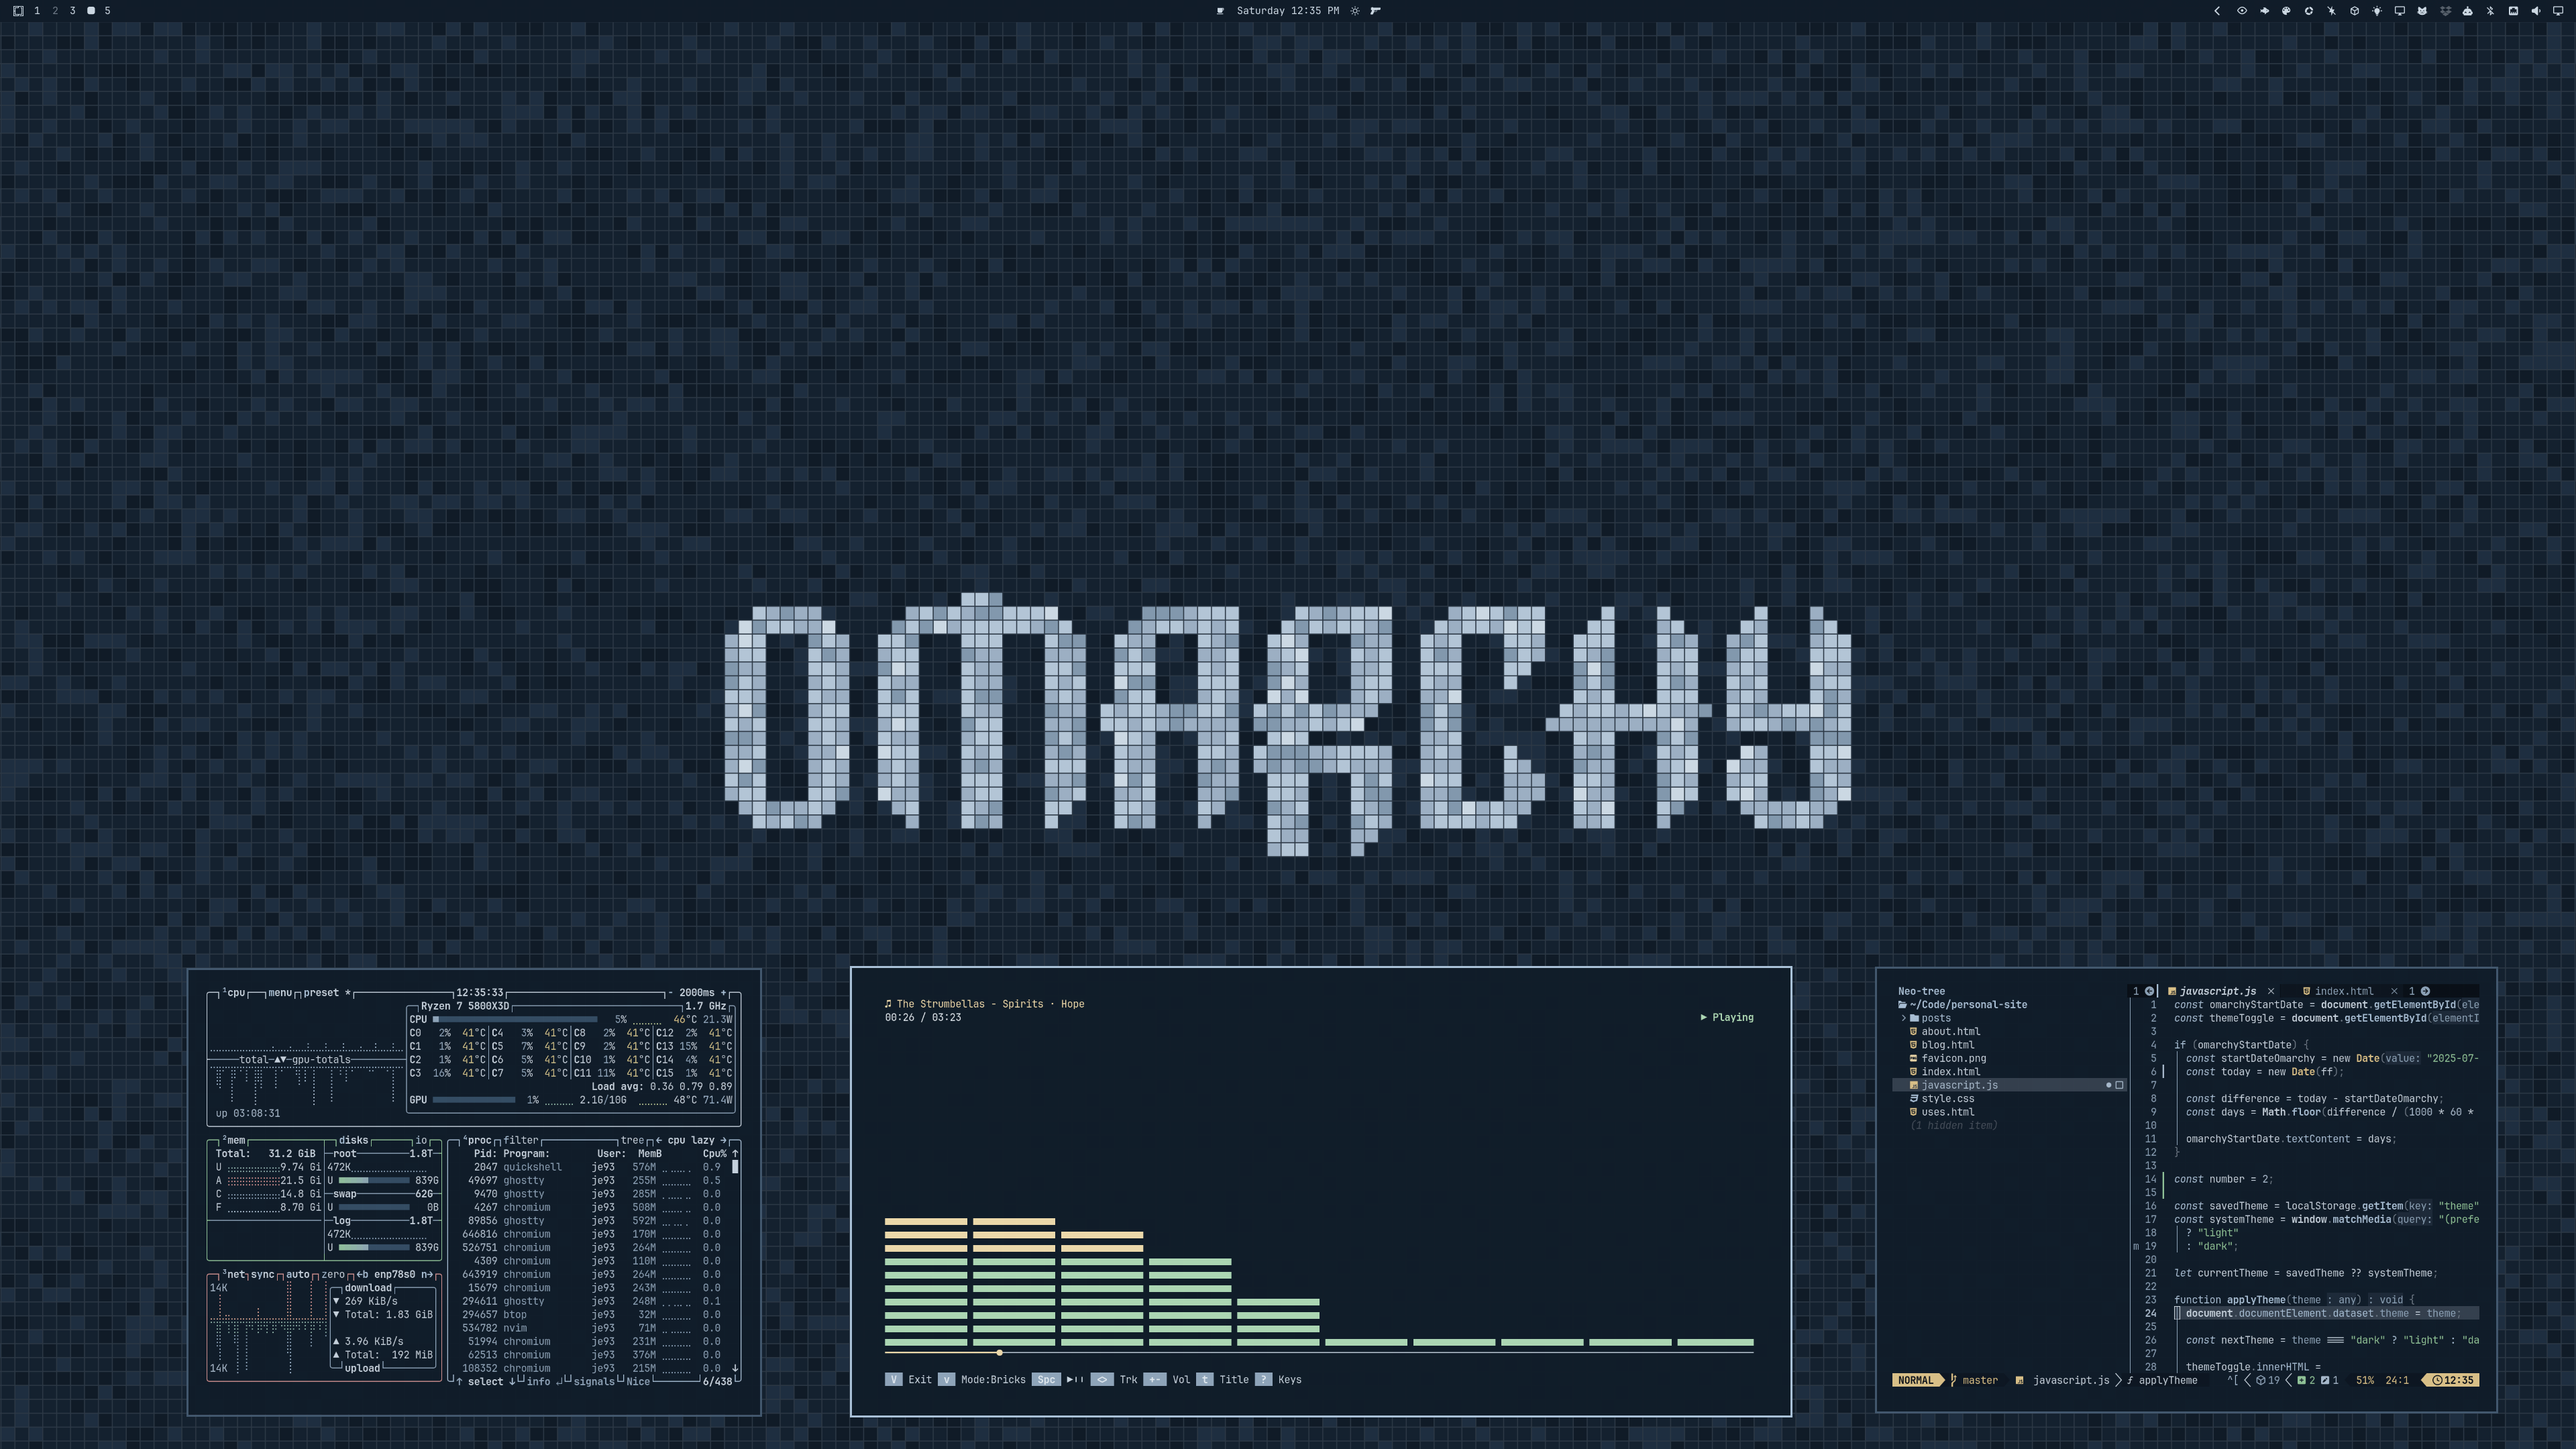
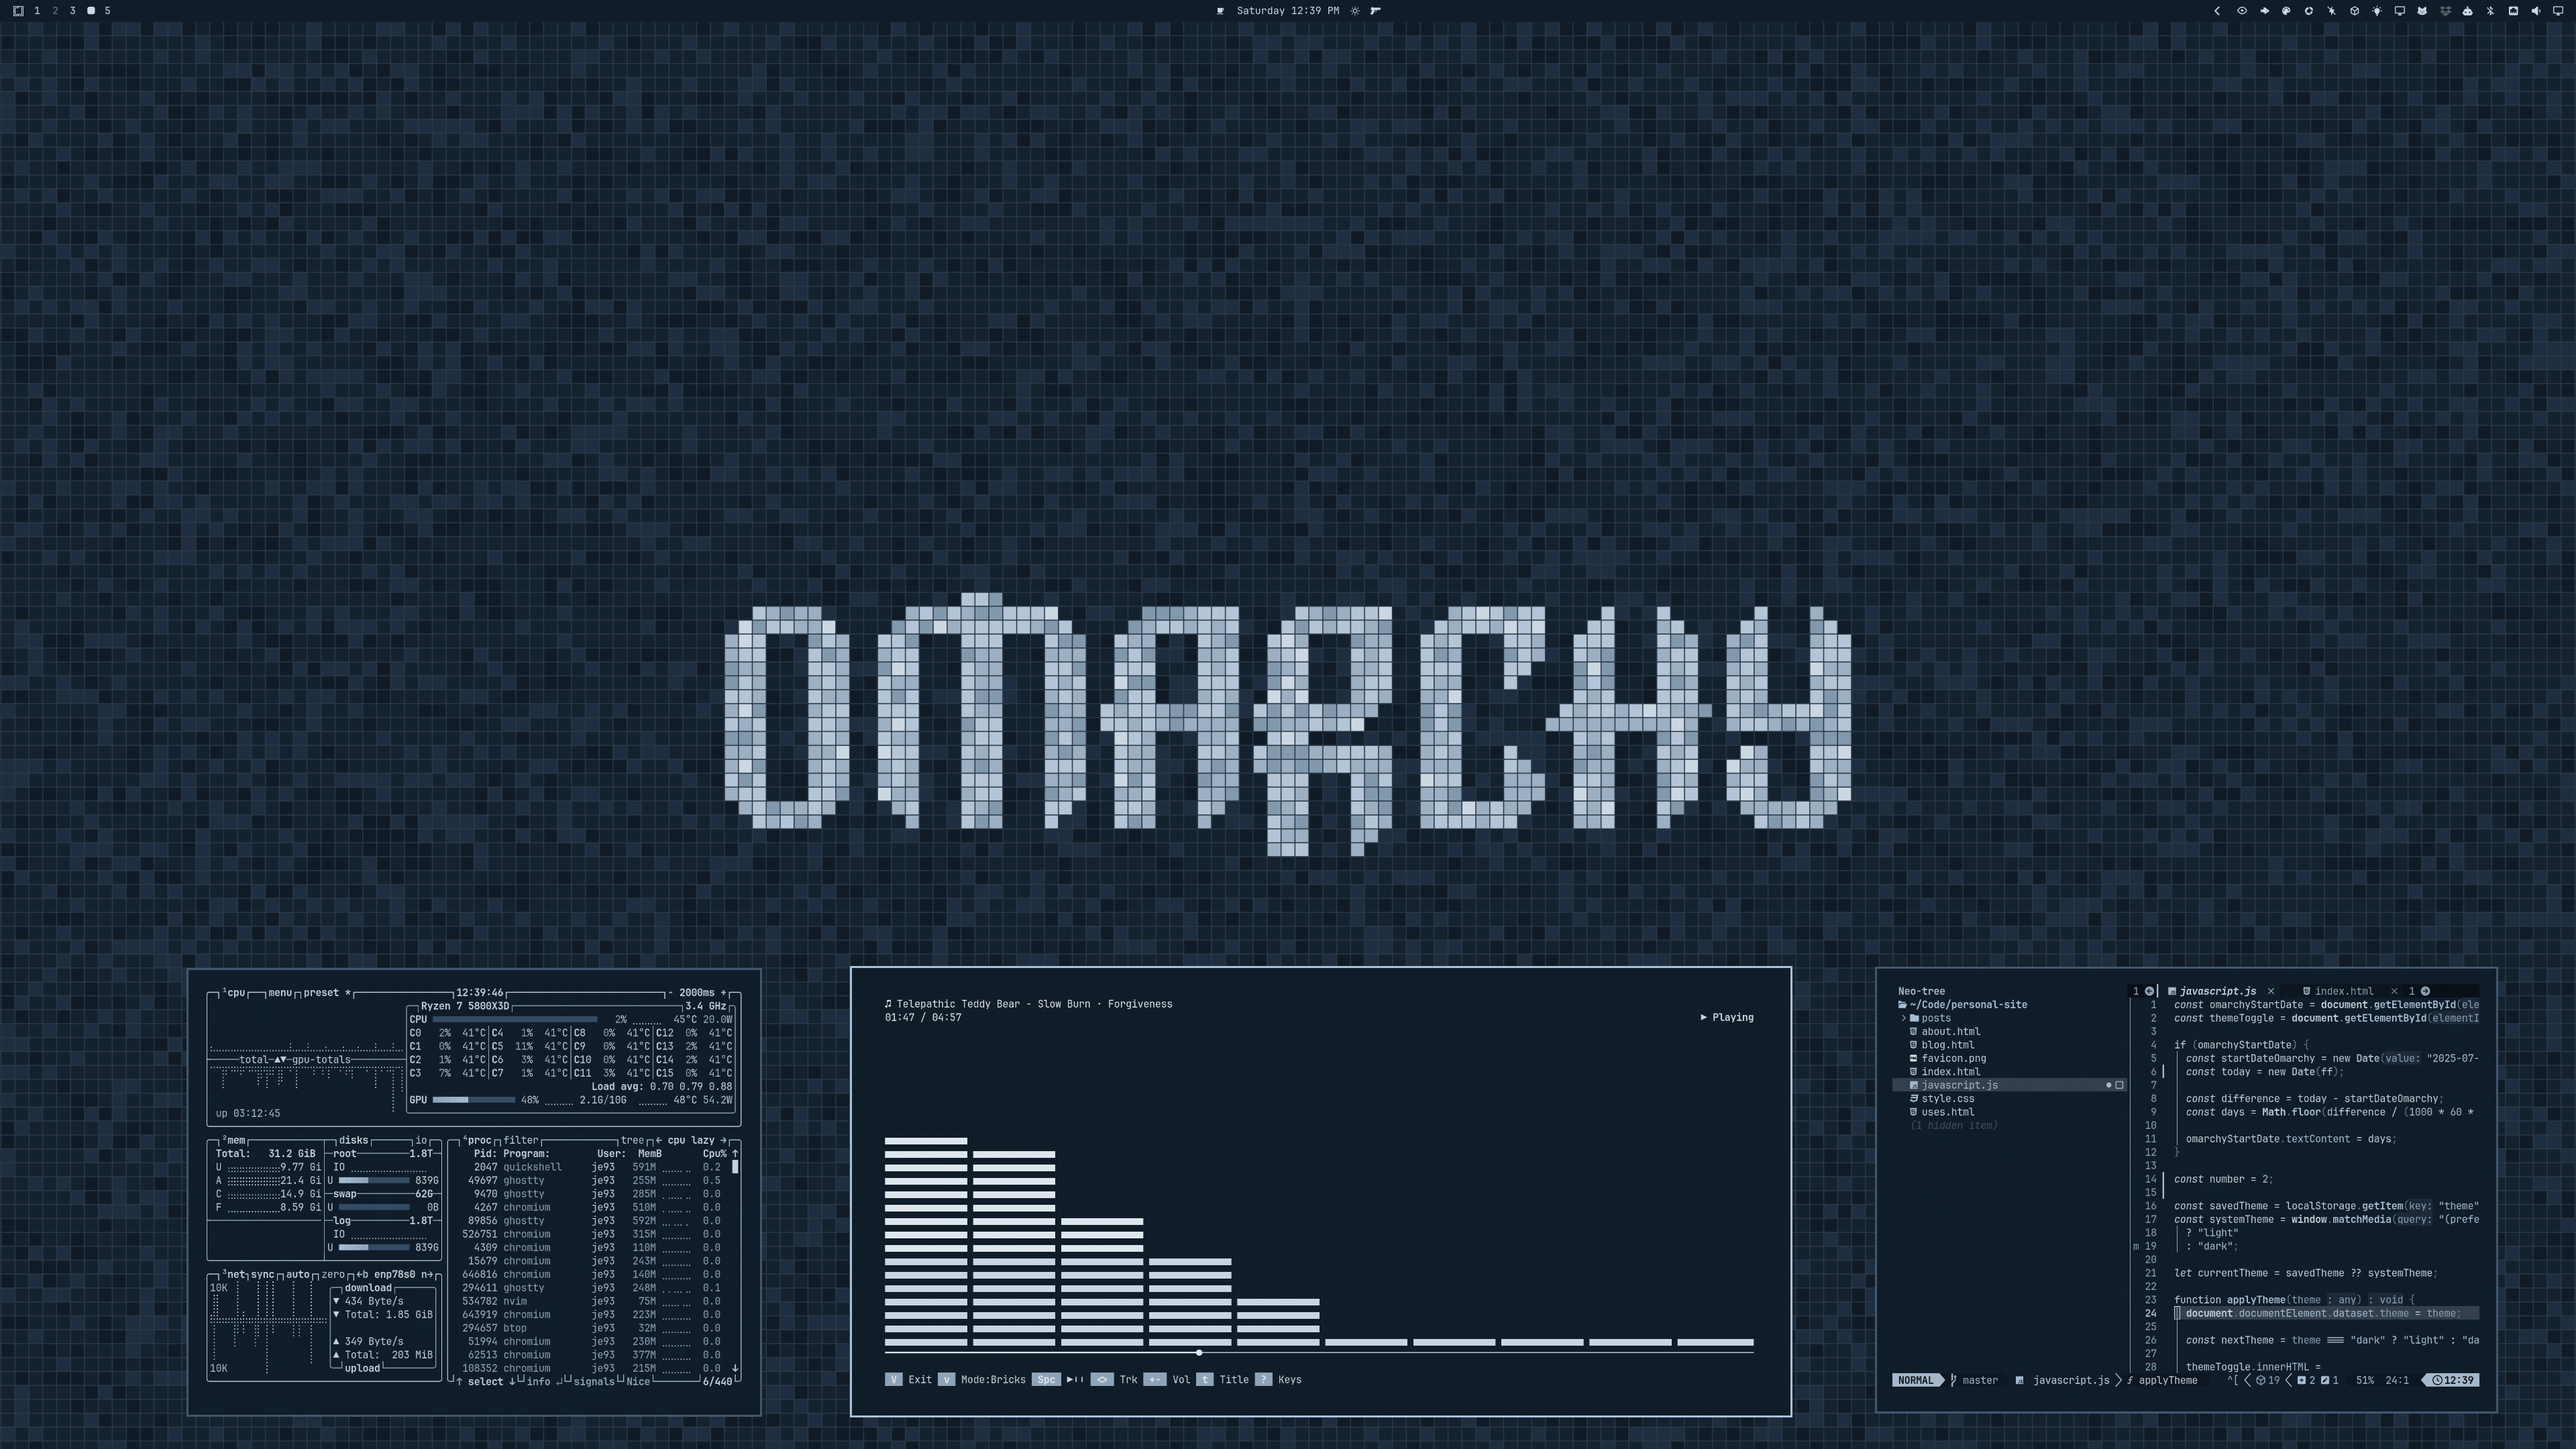
Keep the tonal terminal colours
Go back to the theme's own tonal terminal palette, which keeps cliamp
and other terminal apps in one family of colours, and show a single
desktop preview with the wordmark wallpaper.

diff --git a/README.md b/README.md
@@ -4,8 +4,6 @@ Deep midnight-blue mosaic tiles, pale blue motifs, and cool blue interface accen
 
 ![Midnight Slate Dark Mosaic — desktop preview with the wordmark wallpaper](preview.png)
 
-![Midnight Slate Dark Mosaic — desktop preview with the logo wallpaper](preview-logo.png)
-
 ## Install
 
 For **Omarchy 4 with Omarchy Shell**:
